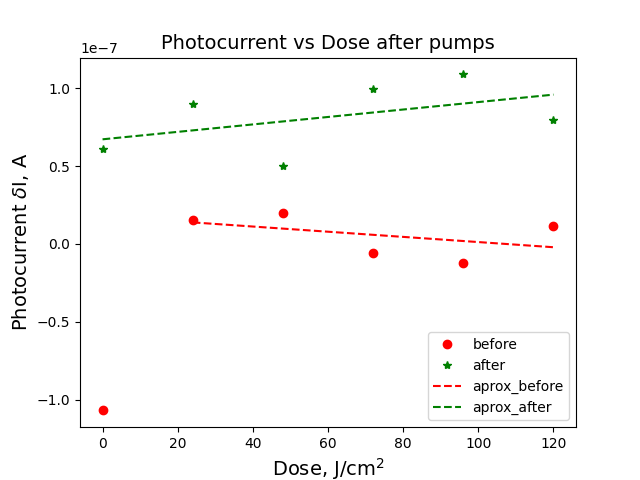
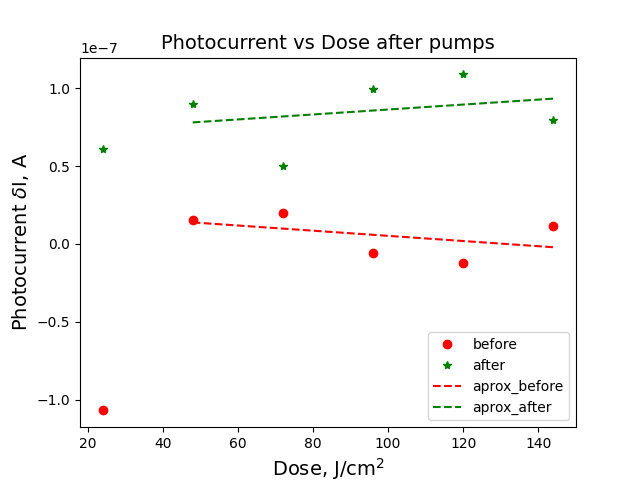
added decay calculation and made some refactoring

diff --git a/analysis.py b/analysis.py
@@ -6,18 +6,20 @@ import numpy as np
 import matplotlib.pyplot as plt
 from measurement import var
 import sys
+from scipy.optimize import curve_fit
+from sklearn.metrics import r2_score
 
 # цикл для создания двух списков откликов - до накачки и после
-def resp(all_laser_data, probe_positions):
-    constant = 10
+def calculate_responces(it_data, probe_positions):
+    approximated_range = 10
     resp = []
     dark = []
     for i in probe_positions:
-        for j in all_laser_data[1:]:
-            t_segm = all_laser_data[0][i[0] - constant : i[1] + constant]
-            d_segm = j[i[0] - constant : i[1] + constant]
+        for j in it_data[1:]:
+            t_segm = it_data[0][i[0] - approximated_range : i[1] + approximated_range]
+            d_segm = j[i[0] - approximated_range : i[1] + approximated_range]
             element = np.vstack((t_segm, d_segm))
-            r, d = responce_calc_dc(element, i[0], i[1]-i[0])
+            r, d = responce_calc(element, i[0], i[1]-i[0])
             resp.append(r)
             dark.append(d)
             
@@ -25,26 +27,28 @@ def resp(all_laser_data, probe_positions):
         
 # Расчет величины отклика на зондирующий импульс
 # Возвращает отклик и величину темнового тока на начало отклика
-def responce_calc_dc(drift, probe_begin, duration):
+# it_slice is a list [[t data], [I data]] with one probe only
+def responce_calc(it_slice, probe_begin, duration, plot=False):
     appr_deg=1
     approx_length = duration    
     probe_duration = duration  
     
-    begin = np.searchsorted(drift[0], probe_begin)
-    end = np.searchsorted(drift[0], probe_begin + duration)
+    begin = np.searchsorted(it_slice[0], probe_begin)
+    end = np.searchsorted(it_slice[0], probe_begin + duration)
     
 
-    slice_before = drift[:, :begin]
-    slice_after = drift[:, end:]
+    slice_before = it_slice[:, :begin]
+    slice_after = it_slice[:, end:]
 
     appr_before = np.polyfit(slice_before[0], slice_before[1], deg=appr_deg)
     appr_after = np.polyfit(slice_after[0], slice_after[1], deg=appr_deg)
     
     
-    calc_pos = drift[0, end]
+    calc_pos = it_slice[0, end]
     responce = np.polyval(appr_after, calc_pos) - np.polyval(appr_before, calc_pos)
-    if False:      
-        plt.plot(drift[0], drift[1], label='data')
+    dark_current = np.polyval(appr_before, slice_before[0, -1])
+    if plot == True:      
+        plt.plot(it_slice[0], it_slice[1], label='data')
         plt.plot(slice_before[0], np.polyval(appr_before, slice_before[0]), label='before')
         plt.plot(slice_after[0], np.polyval(appr_after, slice_after[0]), label='after')
         plt.xlabel('Time, s')
@@ -52,11 +56,51 @@ def responce_calc_dc(drift, probe_begin, duration):
         plt.legend() # (loc='upper left')
         plt.show()
         
-    return (responce, np.polyval(appr_before, slice_before[0, -1]))
+    return (responce, dark_current)
     
 
+# creating list of decay times
+def calculate_decays(it_data, pump_position, pump_duration):
+    pump_end = pump_position + pump_duration
+    begin = np.searchsorted(it_data[0], pump_end)
+    end = len(it_data[0])//2
+    t_segm = it_data[0][begin:end]
+    decays = []
+    for j in it_data[1:]:
+        i_segm = j[begin:end]
+        decay = exp_decay(t_segm, i_segm)
+        decays.append(decay)
+            
+    return decays
+
+# calculating decay time on segment
+def exp_decay(x, y, plot=False):
+    func = lambda x,a1,t1, b: a1*np.exp(t1*x) + b
+    p0 = (0.5, -1/500, 0.5) # the initial guess for the second parameter is 500 sec
+
+    y /=np.max(y)
+    popt, pcov = curve_fit(func,  x, y, p0=p0) # popt is [a. b]
+    y_pred = func(x, *popt)
+
+    time = -1/popt[1]
+    
+    err = r2_score(x, y_pred)
+    print(f'Parameters: {popt[0]=:g}, {popt[1]=:g}, {err=:g}')
+    print(f'Time: {time}')
+
+    if plot == True:      
+        plt.plot(x, y, linewidth=2, label='data')
+        plt.plot(x, y_pred, linewidth=1, label=r'$\tau$=' + f'{time:.3g}')  # *popt is [a. b]
+
+        plt.xlabel('Times, s')
+        plt.ylabel('Intensity, a.u.')
+        plt.legend() #(loc='upper left')
+        plt.title('Approximation by exponential function')
+        plt.show()
+    return time    
+
 filename = sys.argv[1]
-all_laser_data = np.loadtxt(filename, delimiter=',')
+it_array = np.loadtxt(filename, delimiter=',')
 
 pump_start = var.pump_start
 pump_duration = var.pump_duration
@@ -67,22 +111,86 @@ dose = var.dose
 probe_positions = ((pump_start - probe_shift, pump_start - probe_shift + probe_duration), (pump_start + pump_duration + probe_shift, pump_start + pump_duration + probe_shift + probe_duration))
 
 
-resp, dark = resp(all_laser_data.T, probe_positions)
+data = []
+resp, dark = calculate_responces(it_array.T, probe_positions)
 
-doses = [i*dose  for i in range(len(resp)//2)]
+doses = [(i + 1)*dose  for i in range(len(resp)//2)]
 
-plt.plot(doses, resp[:len(resp)//2], 'ro', label='before')
-plt.plot(doses, resp[len(resp)//2:], 'g*', label='after')
+data.append(doses)
+resp_before = resp[:len(resp)//2]
+resp_after  = resp[len(resp)//2:]
+dark_before = dark[:len(dark)//2]
+dark_after  = dark[len(dark)//2:]
 
-y1 = resp[:len(resp)//2]
-begin = 1
-poly1 = np.polyfit(doses[begin:], y1[begin:], deg=1)
-plt.plot(doses[begin:], np.polyval(poly1, doses[begin:]), color='red', label='aprox_before', linestyle='dashed')
-y2 = resp[len(resp)//2:]
-poly2 = np.polyfit(doses, y2, deg=1)
-plt.plot(doses, np.polyval(poly2, doses), color='green', label='aprox_after', linestyle='dashed')
-plt.xlabel('Dose, J/cm$^2$', fontsize=14) #
-plt.ylabel('Photocurrent $\delta$I, A', fontsize=14)
-plt.title('Photocurrent vs Dose after pumps', fontsize=14)
-plt.legend()
-plt.show()
+data.append(resp_before)
+data.append(resp_after)
+data.append(dark_before)
+data.append(dark_after)
+
+np_arr = np.array(data)
+
+np.savetxt(filename[:-4] + '_calc.csv', np_arr.T, fmt='%.6e', header = 'Dose, resp_before, resp_after, dark_before, dark_after', delimiter=',')
+
+
+if True:
+    plt.plot(doses, resp[:len(resp)//2], 'ro', label='before')
+    plt.plot(doses, resp[len(resp)//2:], 'g*', label='after')
+
+
+    begin = 1
+    poly_before = np.polyfit(doses[begin:], resp_before[begin:], deg=1)
+    plt.plot(doses[begin:], np.polyval(poly_before, doses[begin:]), color='red', label='aprox_before', linestyle='dashed')
+    begin = 1
+    poly_after = np.polyfit(doses[begin:], resp_after[begin:], deg=1)
+    plt.plot(doses[begin:], np.polyval(poly_after, doses[begin:]), color='green', label='aprox_after', linestyle='dashed')
+    plt.xlabel('Dose, J/cm$^2$', fontsize=14) #
+    plt.ylabel('Photocurrent $\delta$I, A', fontsize=14)
+    plt.title('Photocurrent vs Dose after pumps', fontsize=14)
+    plt.legend()
+    plt.show()
+
+
+    plt.plot(doses, dark[:len(dark)//2], 'ro', label='before')
+    plt.plot(doses, dark[len(dark)//2:], 'g*', label='after')
+
+    begin = 1
+    poly_before = np.polyfit(doses[begin:], dark_before[begin:], deg=1)
+    plt.plot(doses[begin:], np.polyval(poly_before, doses[begin:]), color='red', label='aprox_before', linestyle='dashed')
+    begin = 1
+    poly_after = np.polyfit(doses[begin:], dark_after[begin:], deg=1)
+    plt.plot(doses[begin:], np.polyval(poly_after, doses[begin:]), color='green', label='aprox_after', linestyle='dashed')
+    plt.xlabel('Dose, J/cm$^2$', fontsize=14) #
+    plt.ylabel('Dark current, A', fontsize=14)
+    plt.title('Dark current vs Dose after pumps', fontsize=14)
+    plt.legend()
+    plt.show()
+
+# ===========================
+# decays calculation
+# ===========================
+
+pump_position = var.pump_start
+pump_duration = var.pump_duration
+decays = []
+
+decays.append(doses)
+decays.append(calculate_decays(it_array.T, pump_position, pump_duration))
+print(f'{decays=}')
+np_decays = np.array(decays)
+
+np.savetxt(filename[:-4] + '_decays.csv', np_decays.T, fmt='%.6e', header = 'Dose, decays', delimiter=',')
+
+
+
+if True:
+    plt.plot(doses, decays[1], 'ro', label=r'$\tau$')
+    #plt.plot(doses, decays[1], 'ro', label=f'$\tau$')
+    begin = 0
+    end = -1
+    poly = np.polyfit(doses[begin:end], decays[1][begin:end], deg=1)
+    plt.plot(doses[begin:end], np.polyval(poly, doses[begin:end]), color='red', label='aprox', linestyle='dashed')
+    plt.xlabel('Dose, J/cm$^2$', fontsize=14) #
+    plt.ylabel('Decay time, s', fontsize=14)
+    plt.title('Decay time vs Dose after pumps', fontsize=14)
+    plt.legend()
+    plt.show() 

diff --git a/measurement.py b/measurement.py
@@ -74,7 +74,6 @@ def warm_up(duration, filenameRaw):
         while nowTime - startTime < position:
             nowTime = time.time()
 
-        #[current, voltage] = drain.measure_current_and_voltage()
         [current, voltage] = single_measurement(var.inputVoltage)
         print('%.4f' % (nowTime - startTime), '%.5e' % current, '%.2f' % voltage)
         with open(filenameRaw, 'a') as csvfile:
@@ -122,18 +121,14 @@ def acquisition(start_meas, arr, filenameRaw):
             
         if (position >= var.pump_start) and (position < var.pump_start + var.pump_duration): 
             laserState = 10
-            #sm.write_lua("digio.writebit(1, {})".format(laserState))
         elif ((position >= var.pump_start - var.probe_shift) and (position < var.pump_start - var.probe_shift + var.probe_duration)) \
             or ((position >= var.pump_start + var.pump_duration + var.probe_shift) and (position < var.pump_start + var.pump_duration + var.probe_shift + var.probe_duration)):            
             laserState = 1
-            #sm.write_lua("digio.writebit(1, {})".format(laserState))
         else:
             laserState = 0
-            #sm.write_lua("digio.writebit(1, {})".format(laserState))
+
         sm.write_lua("digio.writebit(1, {})".format(laserState))
             
-        
-        #[current, voltage] = drain.measure_current_and_voltage()
         [current, voltage] = single_measurement(var.inputVoltage)
         print('%.4f' % (nowTime - startTime), '%.5e' % current, '%.2f' % voltage, 'laserState=', laserState)
         with open(filenameRaw, 'a') as csvfile:
